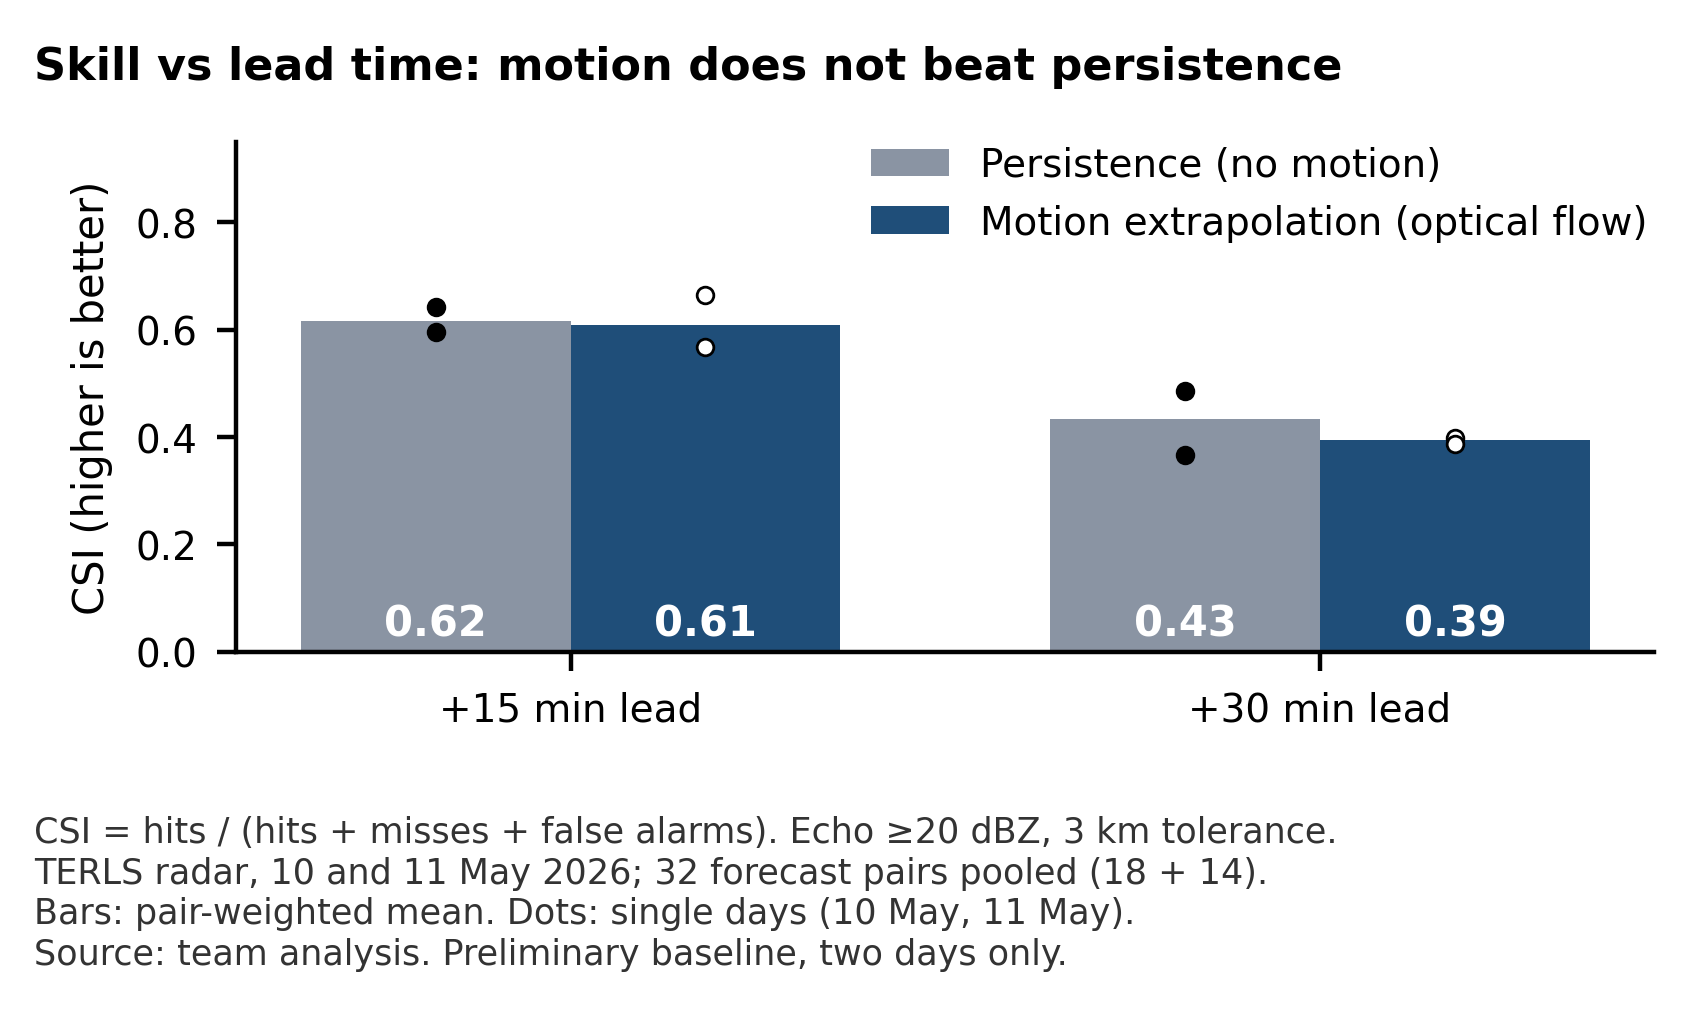
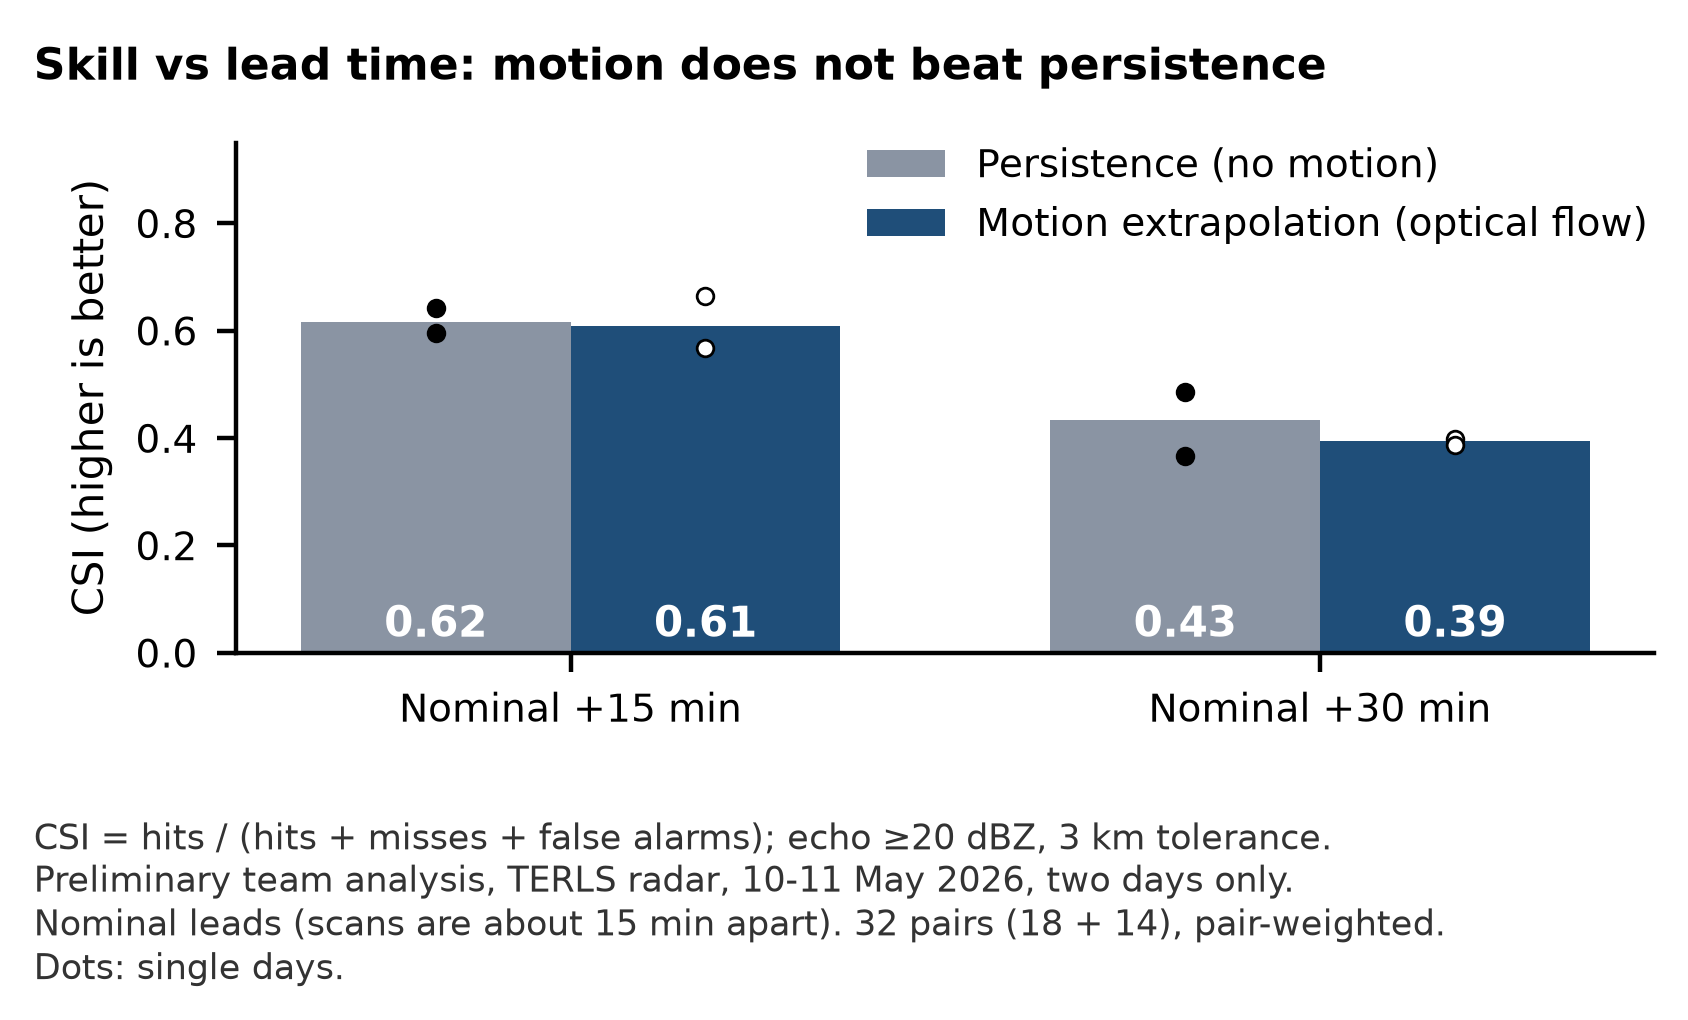
Sync docs with submitted deck

diff --git a/validation/real_radar/make_skill_figure.py b/validation/real_radar/make_skill_figure.py
@@ -41,16 +41,16 @@ for j, (i, col, lab) in enumerate([(1, GRY, "Persistence (no motion)"), (2, NAVY
         ax.text(xi[k] + (j - .5) * w, .03, f"{vals[k]:.2f}", ha="center", color="white", fontsize=7.5, fontweight="bold")
         ax.plot([xi[k] + (j - .5) * w] * 2, pool(l, i)[1], "o", ms=3, mfc="white" if j else "black", mec="black", mew=.5)
 ax.set_xticks(xi)
-ax.set_xticklabels(["+15 min lead", "+30 min lead"], fontsize=7.5)
+ax.set_xticklabels(["Nominal +15 min", "Nominal +30 min"], fontsize=7.5)
 ax.set_ylim(0, .95)
 ax.set_ylabel("CSI (higher is better)", fontsize=7.5)
 ax.tick_params(labelsize=7)
 ax.legend(fontsize=7, frameon=False, loc="upper right", ncol=1, bbox_to_anchor=(1.02, 1.06))
 fig.text(.02, .955, "Skill vs lead time: motion does not beat persistence", fontsize=8, fontweight="bold", va="top")
-fig.text(.02, .20, "CSI = hits / (hits + misses + false alarms). Echo ≥20 dBZ, 3 km tolerance.\n"
-         f"TERLS radar, 10 and 11 May 2026; {sum(npairs)} forecast pairs pooled ({' + '.join(map(str, npairs))}).\n"
-         "Bars: pair-weighted mean. Dots: single days (10 May, 11 May).\n"
-         "Source: team analysis. Preliminary baseline, two days only.",
+fig.text(.02, .20, "CSI = hits / (hits + misses + false alarms); echo ≥20 dBZ, 3 km tolerance.\n"
+         "Preliminary team analysis, TERLS radar, 10-11 May 2026, two days only.\n"
+         f"Nominal leads (scans are about 15 min apart). {sum(npairs)} pairs ({' + '.join(map(str, npairs))}), pair-weighted.\n"
+         "Dots: single days.",
          fontsize=6.3, va="top", color="#333", linespacing=1.25)
 os.makedirs(FIGS, exist_ok=True)
 fig.savefig(os.path.join(FIGS, "skill_only.png"))

diff --git a/docs/submission-audit.md b/docs/submission-audit.md
@@ -39,7 +39,7 @@ or work we do not have yet).
 | 26 | Deck metadata "Crowdfunder 2013" | L | `docProps/core.xml` | Title and author updated; template originals kept in the comments | Fixed (template licence unverified) |
 | 27 | Originality | M | Not checked | [`NOTICE.md`](../NOTICE.md) lists the methods taken from the literature | Open: no code or chart similarity scan |
 | 28 | The project's first name was already used | M | GitHub search: 4 other repositories with the same or a near name | Renamed to Imperial-X (repo `Agamsma/imperial-x`, site imperial-x-six.vercel.app) | Fixed |
-| 29 | Dashboard screenshot placeholder | M | Deck V4 slide 2 has a screenshot of the live /demo page (REPLAY MODE, new hazard labels) | Placeholder replaced | Fixed |
+| 29 | Dashboard screenshot | M | Deck V4 slide 2 has a screenshot of the live /demo page (REPLAY MODE, new hazard labels) | The screenshot is the real prototype dashboard, labelled synthetic demo data | Fixed |
 | 30 | Publishing imagery derived from MOSDAC data | M | MOSDAC terms not checked | Public figures show only derived numbers (areas, fractions, CSI), no radar or satellite images | Open: check the terms |
 | 31 | Validation design | M | Plan text only | Day-grouped split, independent labels, missing data never scored as negative (deck, method page, coverage doc). The baseline itself still counts missing pixels as no echo, as its README says | Partly (plan, not run) |
 | 32 | Ensemble fractions called probabilities | M | No calibration | Disclosed in the deck, README, site and method page | Fixed |

diff --git a/validation/real_radar/README.md b/validation/real_radar/README.md
@@ -207,8 +207,8 @@ storm life cycle figure; it is not used in the skill scores.
 
 `make_figure.py` draws the radar area >= 30 dBZ (km², one pixel is about 1 km²) and the
 satellite cold cloud fraction inside the same box on 10 May, next to the skill bars.
-`make_skill_figure.py` draws the skill figure used on slide 2 of the deck and on the website
-in its V3 version (`public/real-data/skill-only.png`). `make_day_figure.py` draws the per-day
+`make_skill_figure.py` draws the skill figure used on slide 2 of the deck
+(`figures/skill_only.png`, copied to `public/real-data/skill-only.png`). `make_day_figure.py` draws the per-day
 figure used on the V4 deck, the README and the website (`figures/skill_by_day.png` and
 `public/real-data/skill-by-day.png`); it reads the storm speeds, pair counts, pooled values and
 the winner of each day from `skill_results.json`. All three read only the JSON results.
